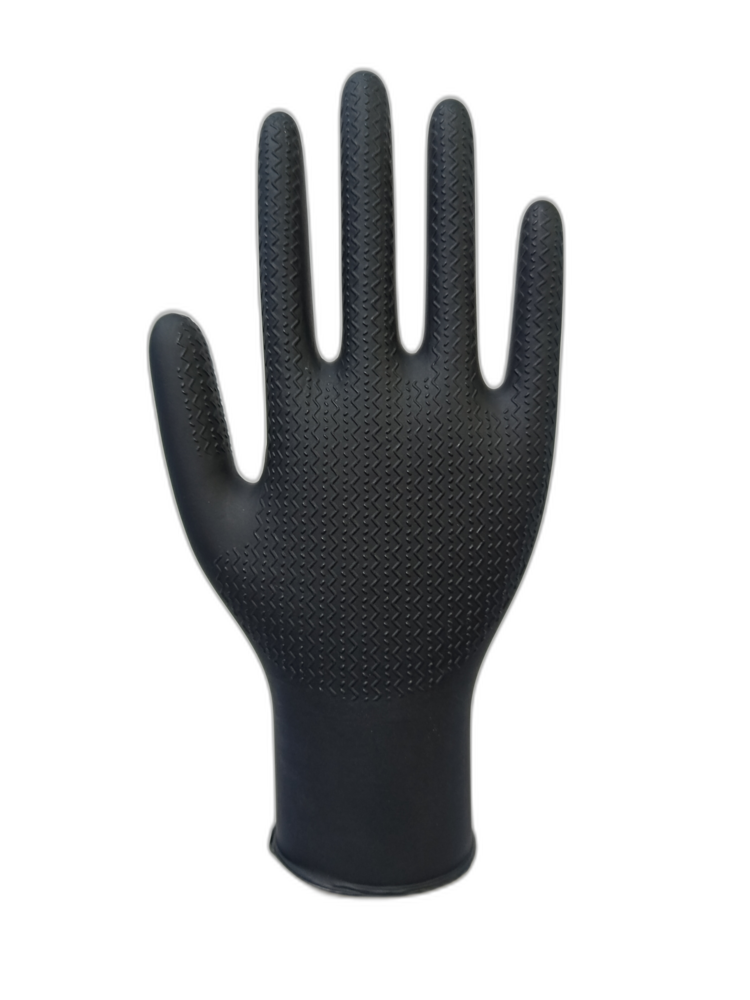
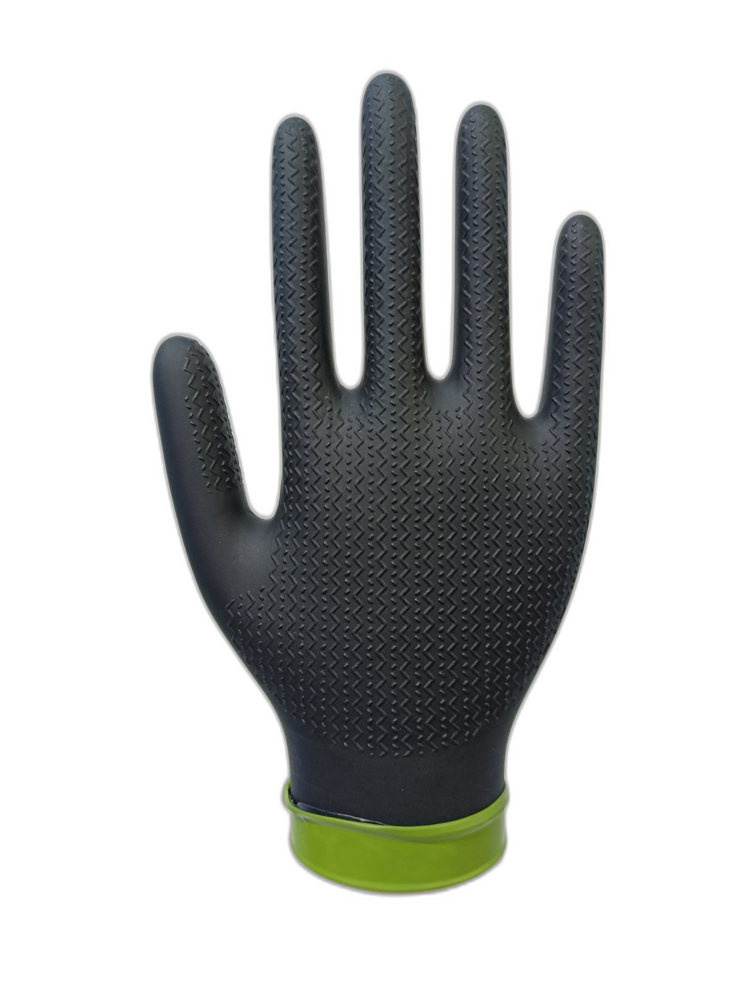
Glove pages: thumbnail gallery carousel; include both A/B angles; dual-tone Zig uses 29.B as primary

Changed region(s): [[0.184, 0.062, 0.828, 0.899]]

diff --git a/src/data/catalogue.ts b/src/data/catalogue.ts
@@ -204,15 +204,25 @@ const colourPhotos: Record<string, string> = {
   "Smooth|long|Latex|Black": "colours/c-sm-l-l-black.png",
 };
 
-// The colour-specific photos available for a glove, in its listed colour order.
-// Used to build the product-page colour carousel; empty/one-item means no carousel.
+// Second-angle (B) photos for gloves shot from two views; appended after the
+// primary so both angles appear in the product-page gallery.
+const colourPhotosB: Record<string, string> = {
+  "Zig|short|Nitrile|Dual Tone (Black and Green)": "colours/c-zig-s-n-dualtoneblackandgreen-b.png",
+  "Zig|long|Latex|Blue and White": "colours/c-zig-l-l-blueandwhite-b.png",
+  "Diamond|long|Latex|Blue": "colours/c-dia-l-l-blue-b.png",
+  "Diamond|long|Latex|Orange": "colours/c-dia-l-l-orange-b.png",
+};
+
+// The colour-specific photos available for a glove, in its listed colour order,
+// including a second angle where we have one. Builds the product-page gallery.
 export function gloveColourPhotos(g: Glove): { colour: string; img: string }[] {
   const cuff = g.longCuff ? "long" : "short";
   const mat = /Latex/.test(g.material) ? "Latex" : "Nitrile";
   const out: { colour: string; img: string }[] = [];
   for (const c of g.colours) {
-    const file = colourPhotos[`${g.texture}|${cuff}|${mat}|${c}`];
-    if (file) out.push({ colour: c, img: GC + file });
+    const key = `${g.texture}|${cuff}|${mat}|${c}`;
+    if (colourPhotos[key]) out.push({ colour: c, img: GC + colourPhotos[key] });
+    if (colourPhotosB[key]) out.push({ colour: c, img: GC + colourPhotosB[key] });
   }
   return out;
 }
